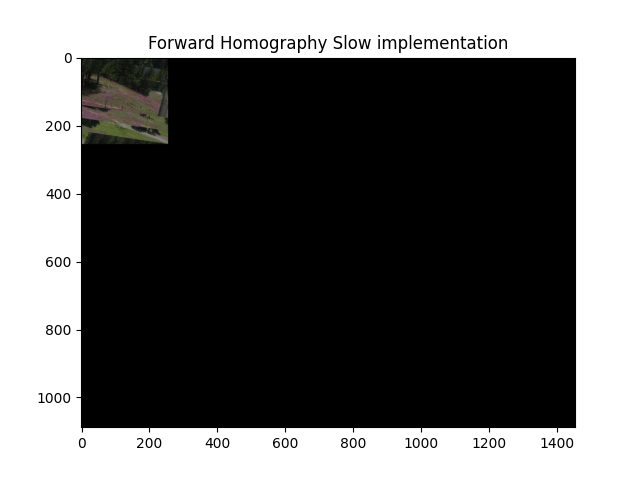
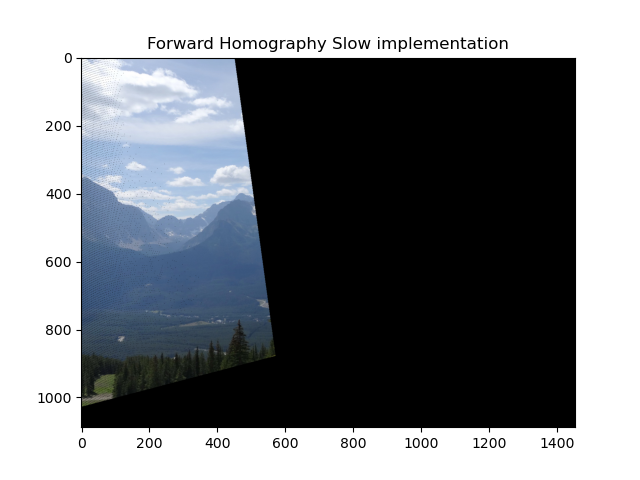
code + word (1-3)
- compute_forward_homography_slow: done
- questions 1-3 in word - done

diff --git a/ex1_student_solution.py b/ex1_student_solution.py
@@ -5,10 +5,8 @@ from typing import Tuple
 from random import sample
 from collections import namedtuple
 
-
 from numpy.linalg import svd
 from scipy.interpolate import griddata
-
 
 PadStruct = namedtuple('PadStruct',
                        ['pad_up', 'pad_down', 'pad_right', 'pad_left'])
@@ -16,6 +14,7 @@ PadStruct = namedtuple('PadStruct',
 
 class Solution:
     """Implement Projective Homography and Panorama Solution."""
+
     def __init__(self):
         pass
 
@@ -37,15 +36,17 @@ class Solution:
         N = match_p_src.shape[1]
         A = []
         for i in range(N):
-            row1 = [-match_p_src[0,i], -match_p_src[1,i], -1, 0, 0, 0, match_p_src[0,i]*match_p_dst[0,i], match_p_src[1,i]*match_p_dst[0,i], match_p_dst[0,i]]
-            row2 = [0, 0, 0, -match_p_src[0,i], -match_p_src[1,i], -1, match_p_src[0,i]*match_p_dst[1,i], match_p_src[1,i]*match_p_dst[1,i], match_p_dst[1,i]]
+            row1 = [-match_p_src[0, i], -match_p_src[1, i], -1, 0, 0, 0, match_p_src[0, i] * match_p_dst[0, i],
+                    match_p_src[1, i] * match_p_dst[0, i], match_p_dst[0, i]]
+            row2 = [0, 0, 0, -match_p_src[0, i], -match_p_src[1, i], -1, match_p_src[0, i] * match_p_dst[1, i],
+                    match_p_src[1, i] * match_p_dst[1, i], match_p_dst[1, i]]
             A.append(row1)
             A.append(row2)
         # Find eigenvalues using SVD process and choose the last eigenvalue as the holography matrix parameters
         u, s, vh = np.linalg.svd(A, full_matrices=True)
-        # Take last vector in vh and reshape it to be N x N:
-        vh = vh[-1:,].reshape((3,3))
-        return vh
+        # Take last vector in vh and reshape it to be 3 x 3:
+        homography = vh[-1:, ].reshape((3, 3))
+        return homography
 
     @staticmethod
     def compute_forward_homography_slow(
@@ -71,13 +72,14 @@ class Solution:
             The forward homography of the source image to its destination.
         """
         # return new_image
-        target_image = np.zeros(shape = dst_image_shape)
+        target_image = np.zeros(shape=dst_image_shape)
         for i in range(src_image.shape[0]):
             for j in range(src_image.shape[1]):
-                new_coor = np.matmul(homography, [i, j, 1])
-                u = np.uint8(round(new_coor[0] /new_coor[2]))
-                v = np.uint8(round(new_coor[1] /new_coor[2]))
-                target_image[u, v, :] = src_image[i, j, :] / 255.0
+                new_coor = np.matmul(homography, [j, i, 1])
+                u = np.round(new_coor[0] / new_coor[2]).astype(int)
+                v = np.round(new_coor[1] / new_coor[2]).astype(int)
+                if dst_image_shape[0] > v >= 0 and dst_image_shape[1] > u >= 0:
+                    target_image[v, u, :] = src_image[i, j, :] / 255.0
         return target_image
 
     @staticmethod

diff --git a/main.py b/main.py
@@ -13,7 +13,7 @@ from ex1_student_solution import Solution
 # Don't forget to fill in your IDs!!!
 # students' IDs:
 ID1 = '123456789'
-ID2 = '987654321'
+ID2 = '313472417'
 ##########################################################
 
 
@@ -66,7 +66,7 @@ def main():
     forward_panorama_slow_plot = plt.imshow(transformed_image)
     plt.title('Forward Homography Slow implementation')
     plt.savefig('forward_homography_slow.png')
-    # plt.show()
+    plt.show()
 
     # Plot naive homography with forward mapping, fast implementation
     tt = time.time()
@@ -79,7 +79,7 @@ def main():
     plt.figure()
     forward_panorama_fast_plot = plt.imshow(transformed_image_fast)
     plt.title('Forward Homography Fast implementation')
-    # plt.show()
+    plt.show()
 
     # loading data with imperfect matches
     src_img, dst_img, match_p_src, match_p_dst = load_data(False)

diff --git a/README.md b/README.md
@@ -1,0 +1,1 @@
+# CV_assignment_1
